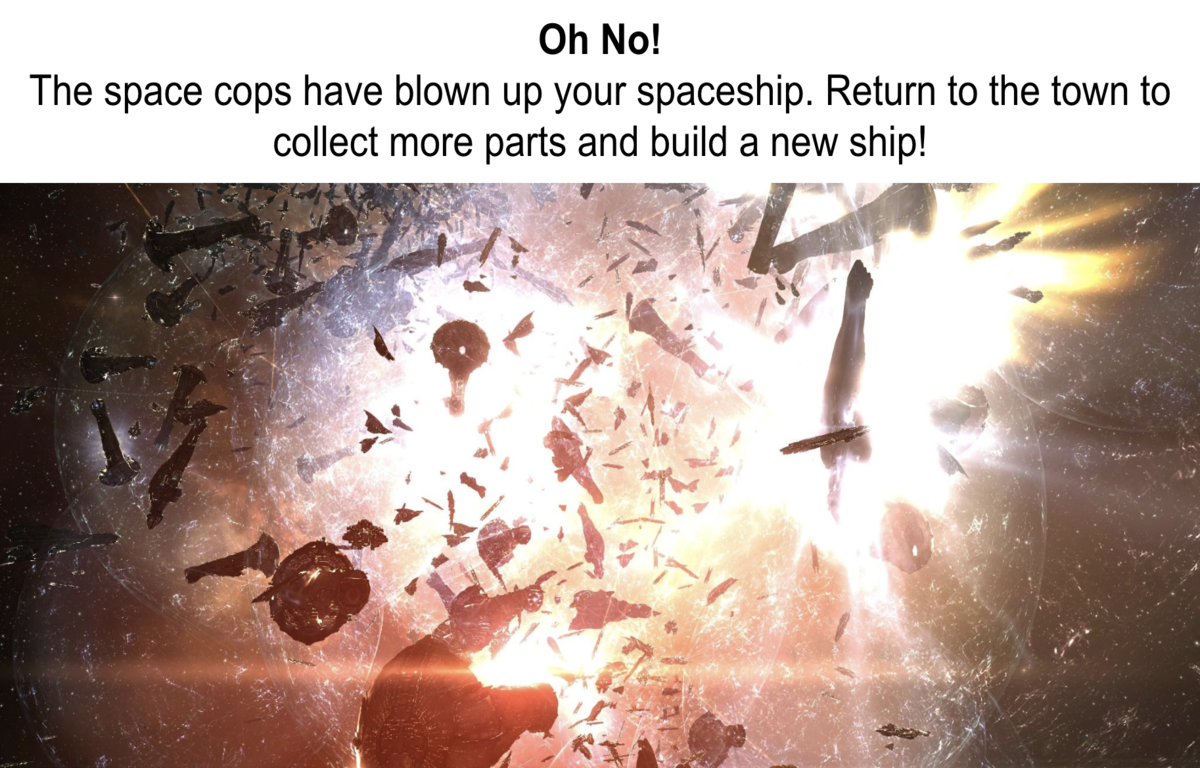
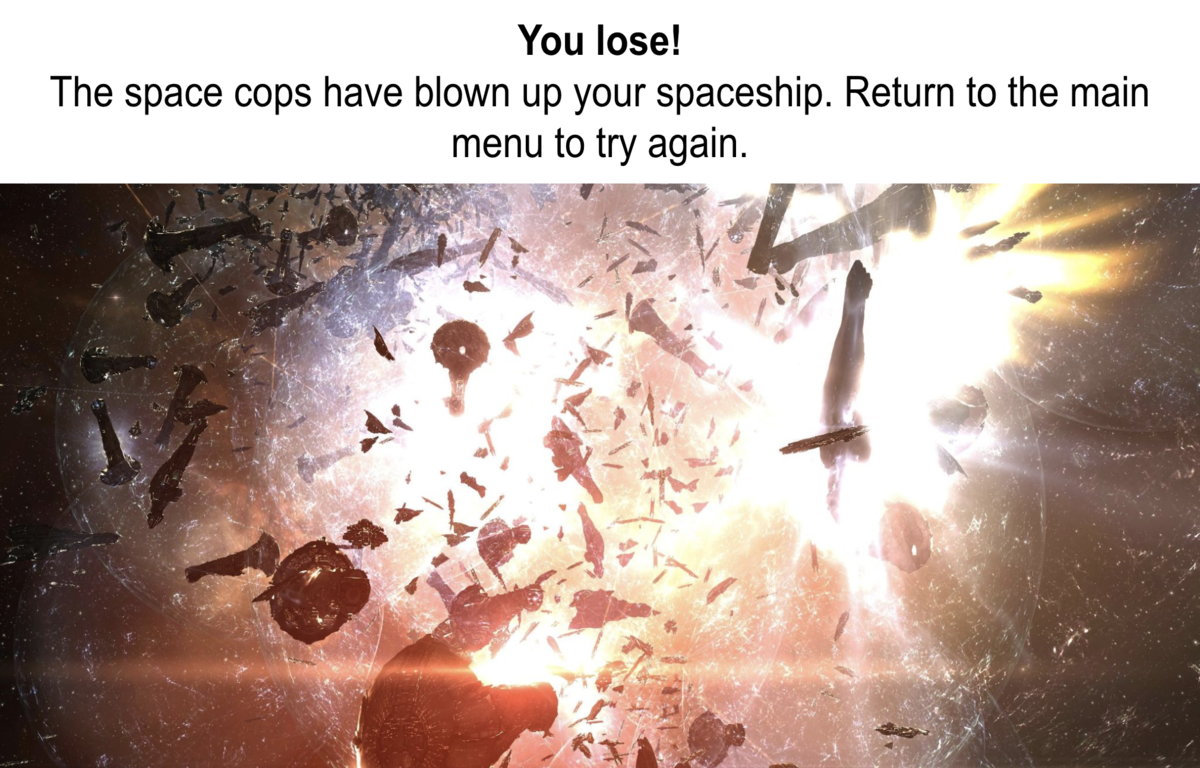
Fixing links for fight cops

diff --git a/characterSelectionMenu.py b/characterSelectionMenu.py
@@ -45,12 +45,15 @@ while running:
         mainMenuButton.command = False
     elif characterOne.command == True:
         character_selected = "images/Character_One.png"
+        #gameElements.character_one_chosen = True
         exec(open('before_capture_alien.py').read())
     elif characterTwo.command == True:
         character_selected = "images/Character_Two.png"
+        #gameElements.character_two_chosen = True
         exec(open('before_capture_alien.py').read())
     elif characterThree.command == True:
         character_selected = "images/Character_Three.png"
+        #gameElements.character_three_chosen = True
         exec(open('before_capture_alien.py').read())
     #if(nextScene):
         #exec(open('before_capture_alien.py').read())

diff --git a/exploded_ship.py b/exploded_ship.py
@@ -25,7 +25,7 @@ while running:
         gameElements.minigame_2_complete = False
         gameElements.minigame_1_complete = False
         gameElements.minigame_3_complete = False
-        exec(open('explore_town.py').read())
+        exec(open('main.py').read())
         exitButton.command = False
 
     screen.blit(bg_img, bg_rect)

diff --git a/before_capture_alien.py b/before_capture_alien.py
@@ -32,7 +32,6 @@ while running:
             if event.key == pygame.K_SPACE:
                 exec(open('after_alien_capture.py').read())
 
-
     render()
 
 pygame.quit()
